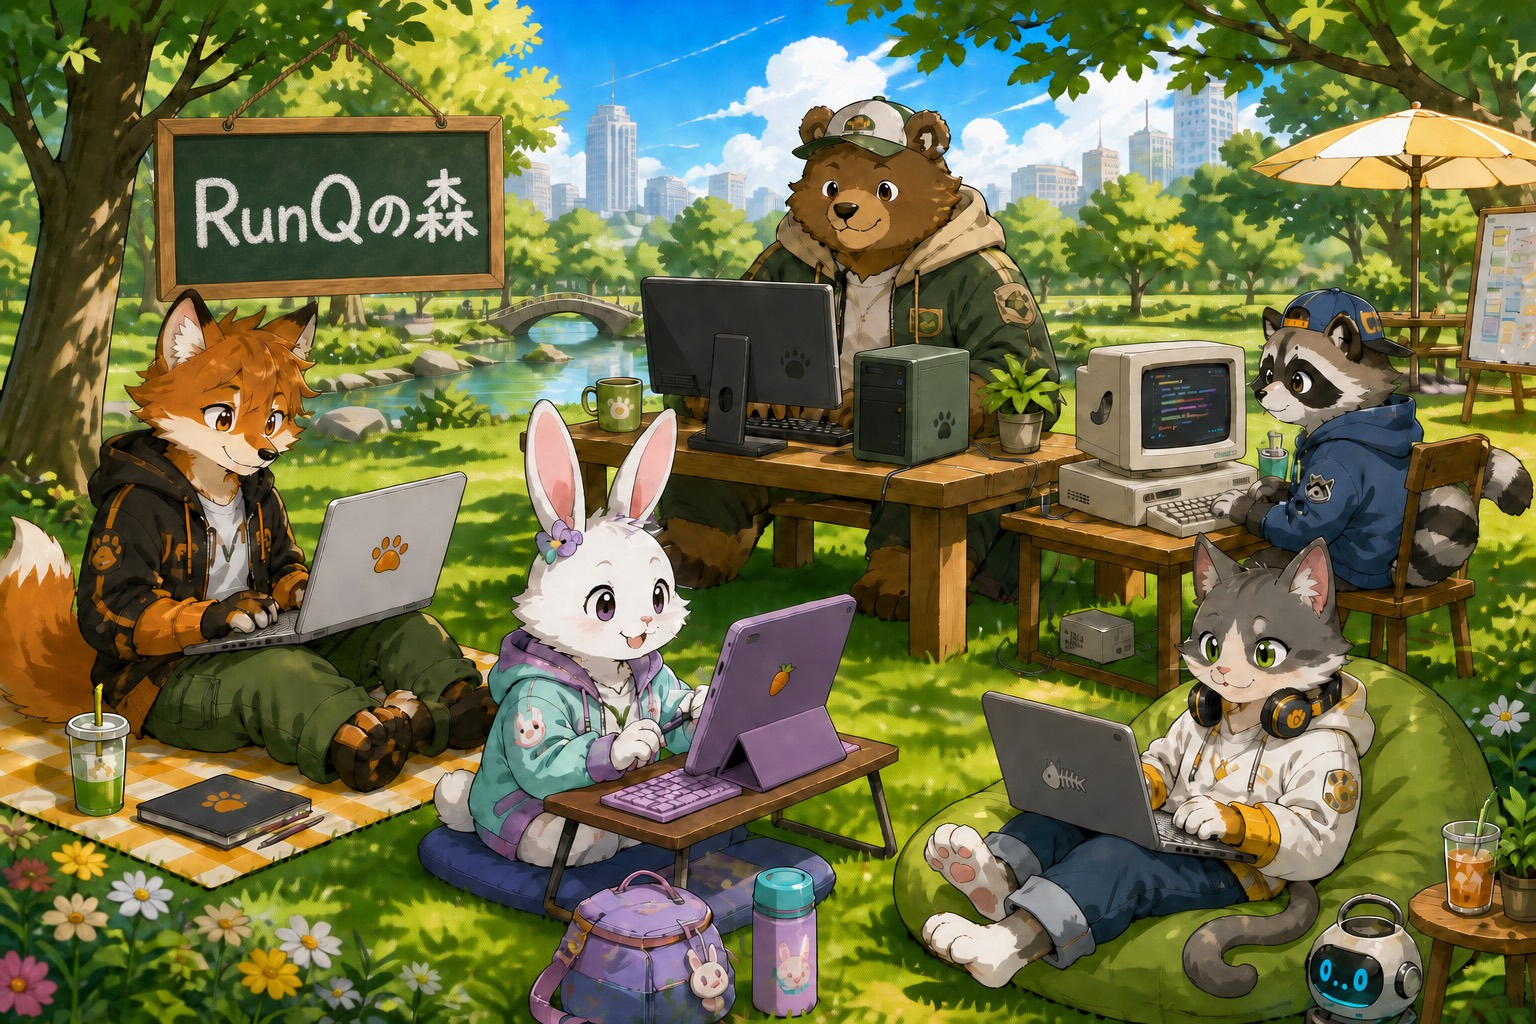
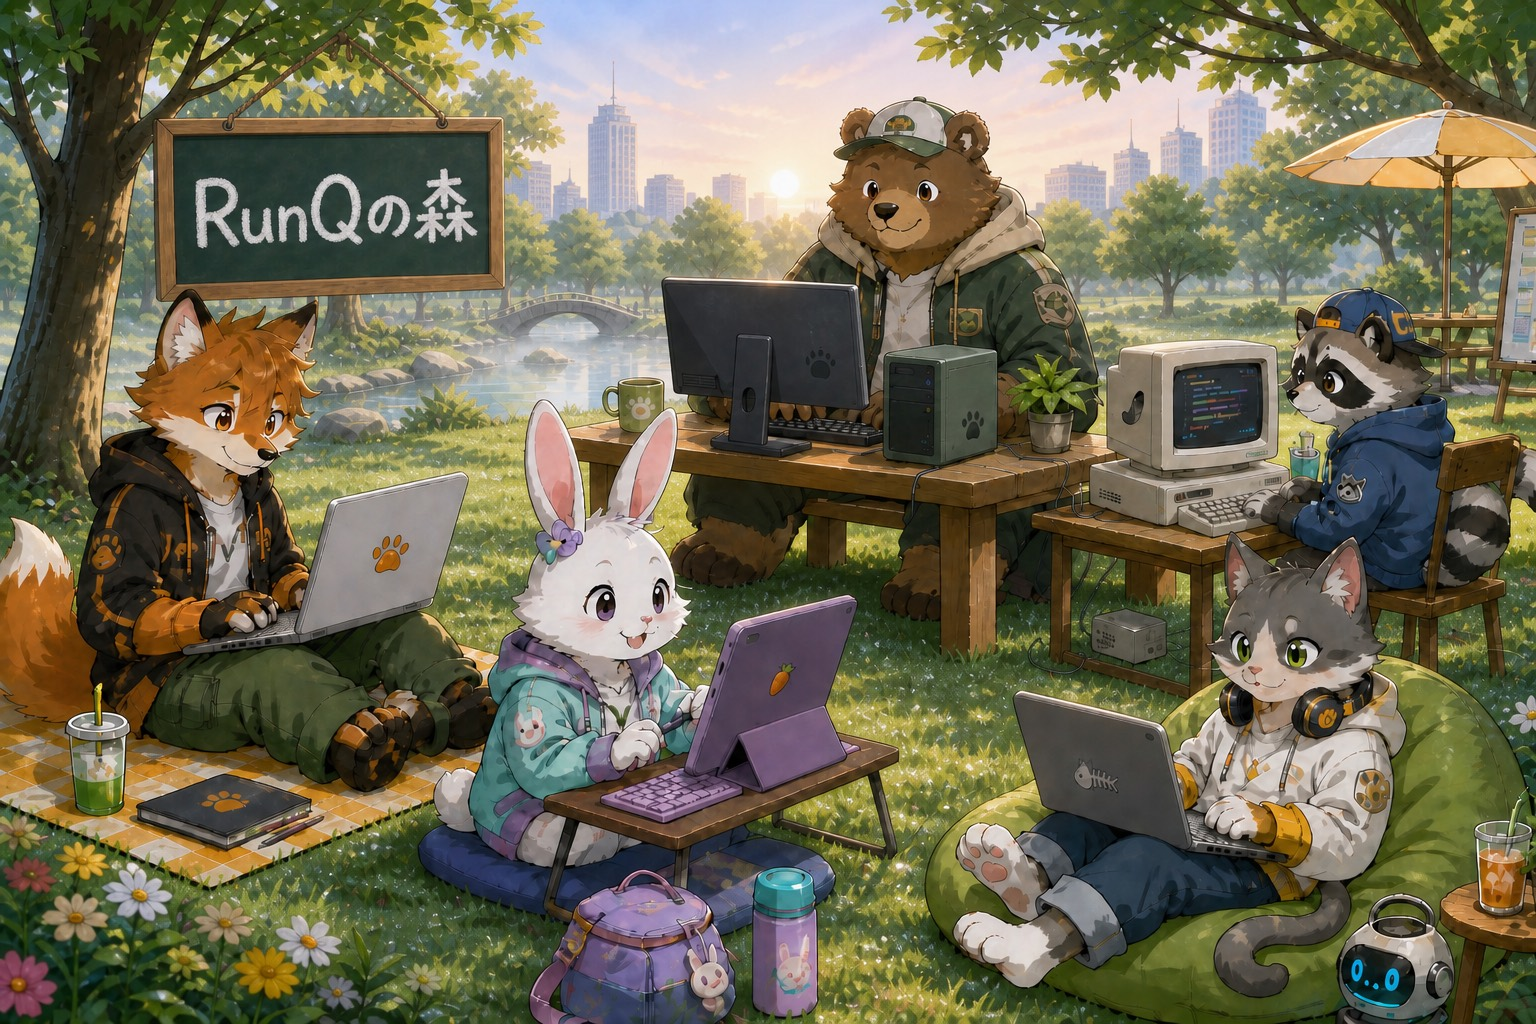
背景を時間帯ごとに鮮明版と透明化版で使い分ける
朝・昼・夕方・夜・深夜の5時間帯について、鮮明版と透明化版の
2種類を用意した。ログイン前のトップページは写真をはっきり見せる
鮮明版、それ以外は文字が読みやすい透明化版を使う。

使われなくなった旧背景画像を削除した。

diff --git a/app/helpers/background_helper.rb b/app/helpers/background_helper.rb
@@ -1,38 +1,47 @@
 module BackgroundHelper
-  # 実際の時刻に合わせてトップページの背景を切り替える。
-  # 画像が用意できていない時間帯は、近い時間帯のもので代用する。
-  TIME_BACKGROUNDS = [
-    { from: 5,  to: 10, image: "bg_morning.jpg",  label: "朝" },
-    { from: 10, to: 16, image: "bg_day.jpg",      label: "昼" },
-    { from: 16, to: 19, image: "bg_evening.jpg",  label: "夕方" },
-    { from: 19, to: 23, image: "bg_night.jpg",    label: "夜" },
-    { from: 23, to: 5,  image: "bg_midnight.jpg", label: "深夜" }
+  # 実際の時刻に合わせて背景を切り替える。
+  # 背景には2種類あり、用途で使い分ける。
+  #   鮮明版  : ログイン前のトップページ。写真をはっきり見せる
+  #   透明化版: それ以外の全ページ。文字を読みやすくするため色を薄くしてある
+  TIME_SLOTS = [
+    { from: 5,  to: 10, key: "morning" },
+    { from: 10, to: 16, key: "day" },
+    { from: 16, to: 19, key: "evening" },
+    { from: 19, to: 23, key: "night" },
+    { from: 23, to: 5,  key: "midnight" }
   ].freeze
 
-  FALLBACK_IMAGE = "bg_day.jpg".freeze
+  FALLBACK_KEY = "day".freeze
 
-  def background_image_for_now
-    hour = Time.current.hour
+  def background_image_for_now(vivid: false)
+    key = current_time_slot_key
+    prefix = vivid ? "bg_" : "bg_soft_"
 
-    entry = TIME_BACKGROUNDS.find do |b|
-      if b[:from] < b[:to]
-        hour >= b[:from] && hour < b[:to]
-      else
-        # 深夜のように日をまたぐ範囲
-        hour >= b[:from] || hour < b[:to]
-      end
-    end
+    candidate = "#{prefix}#{key}.jpg"
+    return candidate if background_asset_exists?(candidate)
 
-    image = entry ? entry[:image] : FALLBACK_IMAGE
-    # 未用意の画像を指定してもエラーにせず、代わりの画像を出す
-    asset_exists?(image) ? image : FALLBACK_IMAGE
+    # 用意できていない時間帯は昼で代用する
+    "#{prefix}#{FALLBACK_KEY}.jpg"
   end
 
   private
 
-  def asset_exists?(name)
-    Rails.application.assets_manifest.assets[name].present?
-  rescue StandardError
+  def current_time_slot_key
+    hour = Time.current.hour
+
+    slot = TIME_SLOTS.find do |s|
+      if s[:from] < s[:to]
+        hour >= s[:from] && hour < s[:to]
+      else
+        # 深夜のように日をまたぐ範囲
+        hour >= s[:from] || hour < s[:to]
+      end
+    end
+
+    slot ? slot[:key] : FALLBACK_KEY
+  end
+
+  def background_asset_exists?(name)
     Rails.root.join("app/assets/images", name).exist?
   end
 end
